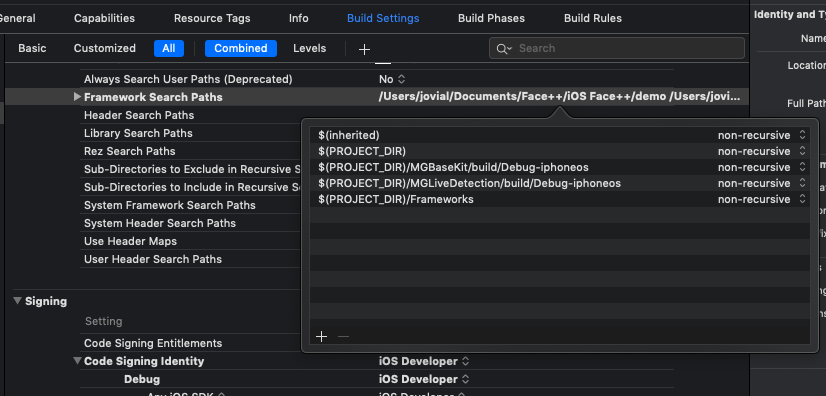
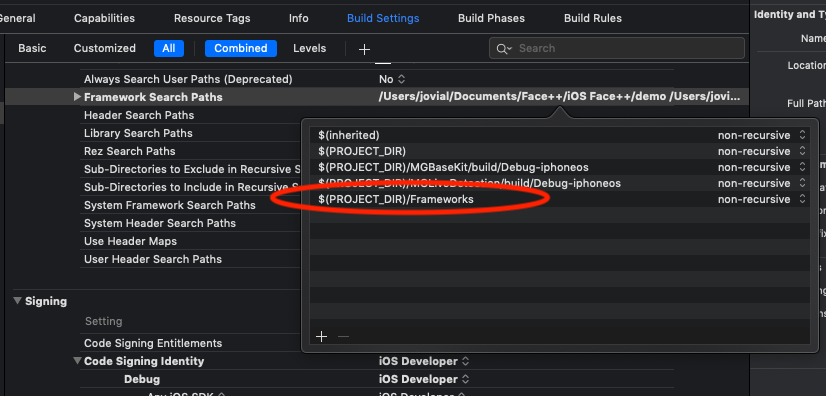
Updated Documentation

Changed region(s): [[0.3027, 0.4545, 0.6659, 0.5455]]

diff --git a/README.md b/README.md
@@ -65,7 +65,7 @@ Kindly note that the project requires the use of a real physical iOS Device in o
 ## <a name="InitialSetup"></a> Initial Setup
 ### <a name="ProjectTargetSettings"></a> Project Target Settings Setup
 #### <a name="BuildSettingsSetup"></a> Build Settings Setup
-Please follow the image below to setup for the frameworks which is crucial for scanning ID cards.<br>
+Please follow the red oval below to setup for the frameworks which is crucial for scanning ID cards.<br>
 ![alt text](Images/ios_build_search_path.png "Build Settings")
 
 #### <a name="InfoPlistSetup"></a> Info.plist Setup
